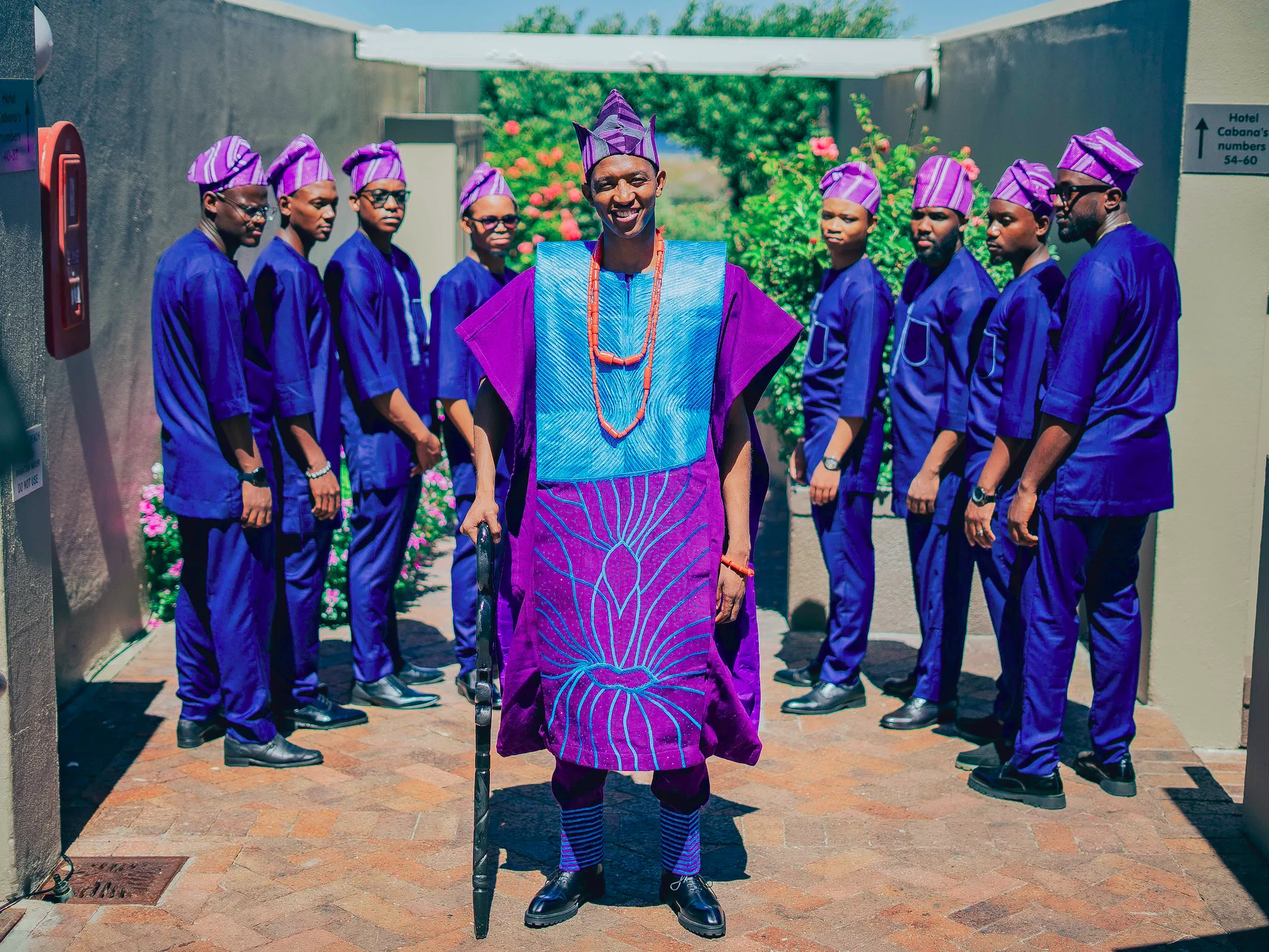
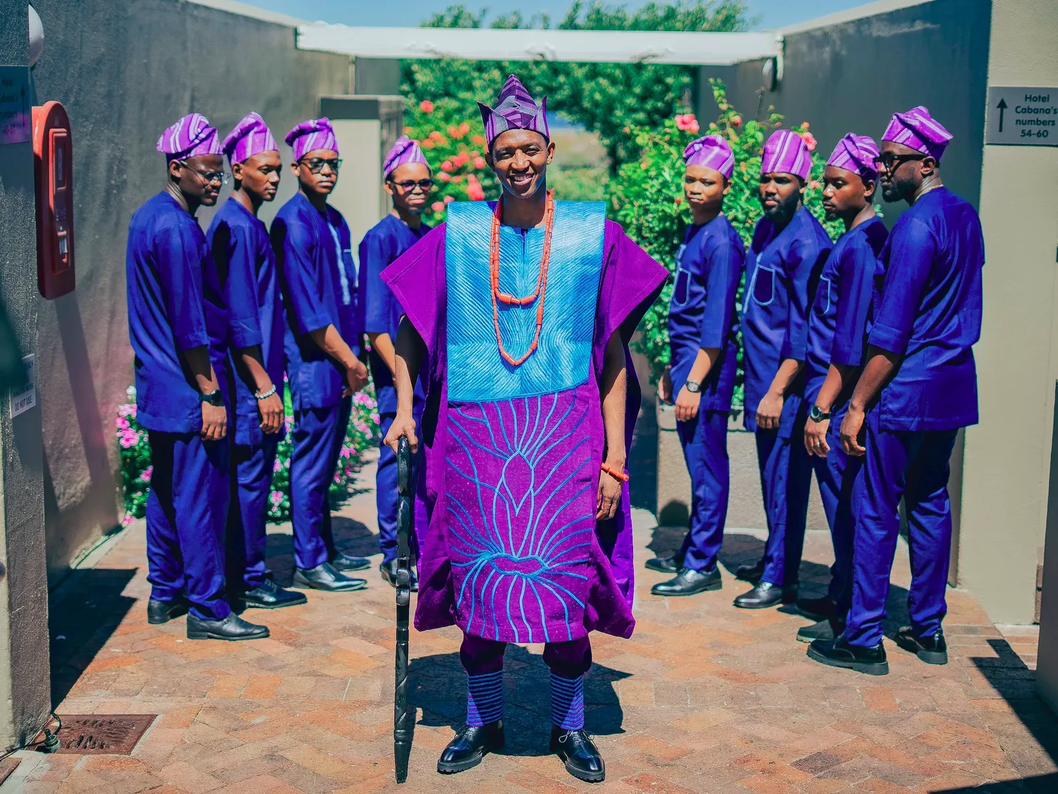
Improve hero loading and optimize images

diff --git a/script.js b/script.js
@@ -222,13 +222,22 @@
     const isMobile = window.matchMedia('(max-width: 576px)').matches || navigator.connection?.saveData;
     const images = isMobile ? ['assets/img/mobile/hero.webp'] : desktopImages;
 
-    const slides = images.map((src, i) => {
+    // The first slide is in the HTML/CSS so the hero can paint before this
+    // deferred script runs. Reuse it, then create only the later slides.
+    const slides = [...container.querySelectorAll('.bg-slide')];
+    if (!slides.length) {
+      const firstSlide = document.createElement('div');
+      firstSlide.className = 'bg-slide active';
+      container.appendChild(firstSlide);
+      slides.push(firstSlide);
+    }
+    slides[0].style.backgroundImage = `url('${images[0]}')`;
+    while (slides.length < images.length) {
       const div = document.createElement('div');
       div.className = 'bg-slide';
-      if (i === 0) div.style.backgroundImage = `url('${src}')`;
       container.appendChild(div);
-      return div;
-    });
+      slides.push(div);
+    }
     let current = 0;
     slides[0].classList.add('active');
 

diff --git a/styles.css b/styles.css
@@ -392,12 +392,16 @@ button {
 .bg-slide {
   position: absolute;
   inset: 0;
+  background-image: url("assets/img/hero-section/hero_sabelo.webp");
   background-size: cover;
   background-position: center 25%;
   opacity: 0;
   transition: opacity 1.5s ease-in-out;
 }
 .bg-slide.active { opacity: 1; }
+@media (max-width: 576px) {
+  .bg-slide { background-image: url("assets/img/mobile/hero.webp"); }
+}
 
 /* Fixed readability gradient — sits over the photos, under everything else */
 .bg-overlay {

diff --git a/index.html b/index.html
@@ -84,7 +84,7 @@
   <div class="reading-progress" id="reading-progress" aria-hidden="true"></div>
 
   <!-- ============ FIXED SITE-WIDE BACKGROUND ============ -->
-  <div class="bg-slideshow" id="bg-slideshow" aria-hidden="true"></div>
+  <div class="bg-slideshow" id="bg-slideshow" aria-hidden="true"><div class="bg-slide active"></div></div>
   <div class="bg-overlay" aria-hidden="true"></div>
 
   <!-- ============ ISLAND NAVBAR ============ -->
